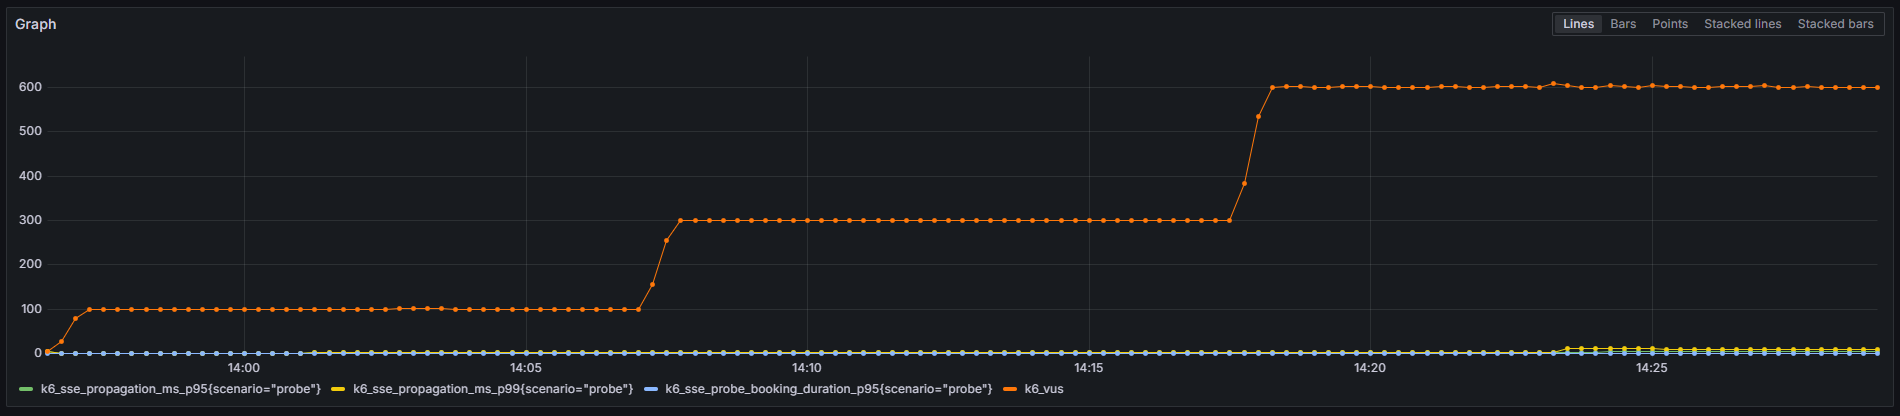
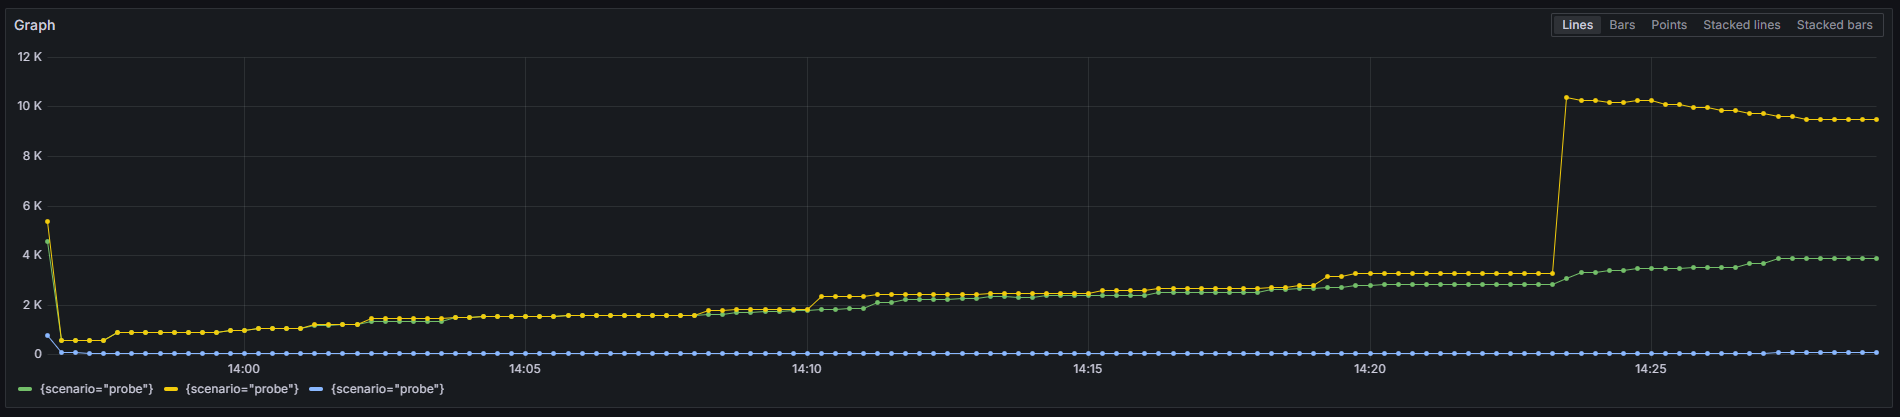
[Test] #403 전파 지연 그래프 재촬영 — 완료조건 6 충족(8장)
축이 겹쳐 못 쓰던 graph-sse-propagation 을 지연 축 단독 ms 스케일로 다시 찍고,
구독자 계단을 graph-sse-subscribers 로 분리했다. 두 장은 시간 범위가 같아 겹쳐 읽는다.

재촬영본이 리포트 수치와 그대로 맞는다.
- 계단별 p95 : 약 1.2K -> 2.2~2.5K -> 2.7~3.3K ms (표값 1,249 / 2,158 / 2,768)
- 버스트 직후 p99 가 10.3K ms 로 수직 상승 (표값 9,951) = §8 의 유실 구간
- probe_booking 이 바닥(약 36ms) = booking API 는 전파 지연의 1.5% 라는 §7 의 그림

범례가 셋 다 {scenario="probe"} 로 보이는 것은 1000 * 연산이 메트릭 이름을 지우기 때문이라
값 순서로 읽는다(p99 >= p95 >= probe_booking). 리포트 판독 메모에 남겼다.

교훈도 함께 적었다 — 쿼리 단위가 다르면 한 그래프에 넣지 않는다. 축이 큰 쪽이 작은 쪽을
완전히 가린다. 처음 캡처가 정확히 그래서 못 쓰게 됐다.

Claude-Session: https://claude.ai/code/session_01Mxn7f4CqP88wVvr2RVwfSj

diff --git a/load-tests/k6/results/260728-403-seat-counts-sse/report.md b/load-tests/k6/results/260728-403-seat-counts-sse/report.md
@@ -318,7 +318,7 @@ utc      active completed pool queued
 | 3 | SSE 동시 구독, 수신율·전파 지연 | ✅ §7 — 100/300/600, p95 1.25s→2.16s→2.77s, 수신율 93.7~99.4%(거부 구간 제외) |
 | 4 | 스레드풀 포화(큐 적체·거부)를 지표로 기록 | ✅ §8 — `executor_queued_tasks` 시계열 + 거부 2,009건(10.3%). 거부 시각이 큐 포화 구간과 전부 일치 |
 | 5 | 각 부하 단계 5분 이상 유지, SSE 10분 이상 | ✅ 집계 5분 × 6계단, SSE 10분 × 3계단 |
-| 6 | Grafana 그래프 캡처 | ✅ `graph-*.png` 7장. 최소 요구 4장을 넘긴다. 다만 `graph-sse-propagation.png` 1장은 재촬영 대상(아래) |
+| 6 | Grafana 그래프 캡처 | ✅ `graph-*.png` **8장**. 최소 요구 4장의 두 배다 |
 
 ---
 
@@ -359,7 +359,7 @@ utc      active completed pool queued
 | `executor-queue-poll-saturation.txt` | 회차 4 큐 깊이 3초 폴링 원자료 |
 | `seed-verification.txt` | 시딩 검증 SELECT 출력 |
 | `timeseries-*-{countsa,countsb,sse}.json` | Prometheus 시계열 덤프 |
-| `graph-*.png` | Grafana Explore 캡처 7장 |
+| `graph-*.png` | Grafana Explore 캡처 8장 |
 | `grafana-capture-links.md` | 캡처 절차 + Explore 링크 |
 
 ### 캡처 판독 메모
@@ -369,4 +369,7 @@ utc      active completed pool queued
 - `graph-sse-executor` — 큐가 1000에 고착됐다가 약 2분 20초에 걸쳐 빠지는 구간이 §8이다.
 - `graph-sse-receipt` — 수신율 계단 700 → 3,000 → 6,000과 버스트 직후 16K 스파이크(밀렸던 이벤트의 일괄 도착).
 - `graph-sse-resources` — CPU·힙·`jvm_threads_live`(110 → 127). tomcat 현재 스레드가 10에서 꿈쩍 않는 것이 "SSE는 스레드를 점유하지 않는다"의 그림이다.
-- ⚠ **`graph-sse-propagation`은 다시 찍어야 한다.** `k6_vus`(0~600)를 같은 축에 넣어 전파 지연(원단위 1.2~4.0)이 바닥에 깔렸다. `grafana-capture-links.md`의 해당 링크를 ms 스케일·지연 축 단독으로 고쳐 두었고, 구독자 계단은 `graph-sse-subscribers.png`로 분리했다.
+- `graph-sse-propagation` + `graph-sse-subscribers` — **이 두 장이 완료조건 3의 곡선이다.** 시간 범위가 같으니 나란히 놓고 읽는다. 구독자가 600으로 올라가는 지점에서 지연 계단이 함께 올라간다. 버스트 직후 p99가 10.3초까지 수직으로 뛰는 것이 §8의 유실 구간이고, 바닥에 깔린 `probe_booking`(약 36ms)이 "booking API는 전파 지연의 1.5%"라는 §7의 그림이다.
+  > 범례가 셋 다 `{scenario="probe"}`로 보이는 것은 `1000 *` 연산이 메트릭 이름을 지우기 때문이다. 값 순서로 구분한다 — 위에서부터 **p99 ≥ p95 ≥ probe_booking**이다.
+  >
+  > 처음 캡처는 `k6_vus`(0~600)를 같은 축에 넣어 전파 지연(원단위 1.2~4.0)이 바닥에 깔려 못 썼다. **쿼리 단위가 다르면 한 그래프에 넣지 않는다** — 축이 큰 쪽이 작은 쪽을 완전히 가린다.
